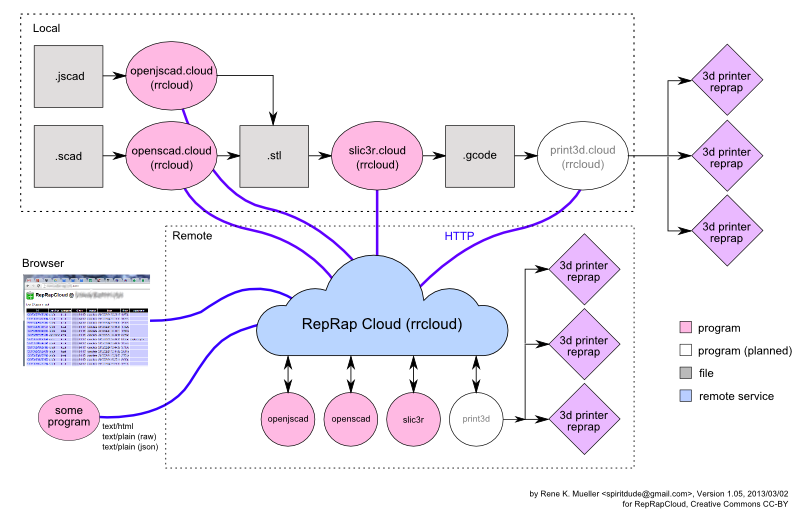
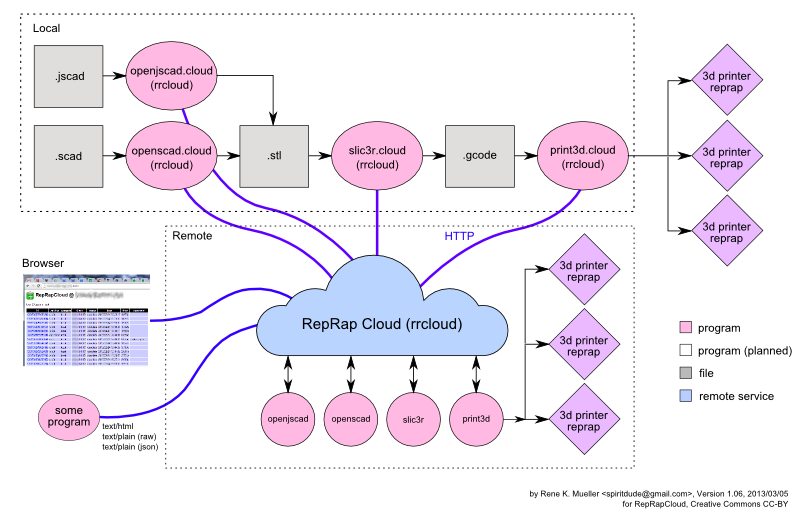
0.016: print3d implemented, native arguments etc

Changed region(s): [[0.6562, 0.2175, 0.7812, 0.3728], [0.5625, 0.7456, 0.6562, 0.8699]]

diff --git a/README.md b/README.md
@@ -1,6 +1,6 @@
 <h1>RepRapCloud</h1>
 
-<b>Version: 0.015 (ALPHA)</b>
+<b>Version: 0.016 (ALPHA)</b>
 
 <b>RepRapCloud</b> (<tt>rrcloud</tt>) is a small but powerful perl-script which provides an easy framework to relay computational work remote among many servers and retrieve the results locally; both synchronous (returns when done) and asynchronous (returns immediately telling you the state of task 'busy', 'complete' or 'failed').
 
@@ -33,6 +33,7 @@ does nearly the same, except it returns right away (asynchronous), and if you ca
 <li><a href="http://openscad.org">OpenSCAD.org</a> (for .scad -> .stl)
 <li><a href="https://github.com/Spiritdude/OpenSCAD.jscad">OpenSCAD.js(cad)</a> & <a href="http://joostn.github.com/OpenJsCad/">OpenJsCad</a> (for .jscad -> .stl)
 <li><a href="http://slic3r.org">Slic3r.org</a> (for .stl -> .gcode)
+<li><a href="https://github.com/kliment/Printrun">Printrun (for .gcode to printer)
 </ul>
 </ul>
 
@@ -41,6 +42,7 @@ does nearly the same, except it returns right away (asynchronous), and if you ca
 <li><b>openscad</b> (single file input/output), e.g. <tt>openscad.cloud huge.scad -ohuge.stl</tt> (<a href="http://openscad.org/">OpenSCAD</a>)
 <li><b>openjscad</b> (single file input/output with support of OpenSCAD.js), e.g. <tt>openjscad.cloud huge.jscad -ohuge.stl</tt> (<a href="https://github.com/Spiritdude/OpenSCAD.jscad">OpenSCAD.js(cad) & OpenJsCad</a>)
 <li><b>slic3r</b>, e.g. <tt>slic3r.cloud --load=my.conf huge.stl --output=huge.gcode</tt>
+<li><b>print3d</b> e.g. <tt>print3d /dev/ttyUSB3 huge.gcode</tt>
 <p>
 <li><b>not yet</b> but planned:
 <ul>
@@ -54,6 +56,7 @@ does nearly the same, except it returns right away (asynchronous), and if you ca
 
 <h2>History</h2>
 <ul>
+<li> 2013/03/05: 0.016: native arguments (switches and variables) supported, print3d service added (via Printrun:printcore.py)
 <li> 2013/03/04: 0.015: preparing general interface for several dbs (mongodb, mysql, flat-file (default))
 <li> 2013/03/03: 0.014: logging, and some code clean-up
 <li> 2013/03/02: 0.013: checking preargN for validity
@@ -333,6 +336,13 @@ slic3r --load=tasks/in/1361787183-742842.conf tasks/in/1361787183-933412.stl --o
 <b>Note:</b> If a prearg<i>n</i> is set which doesn't fit the <i>service</i>.conf:argInput field it will be ignored (e.g. one could set 'prearg0=; do-something-not-approved' and hack the server).
 
 <b>Hint:</b> This configuration and composition procedure is preliminary and might change later.
+
+<h2>See Also</h2>
+<ul>
+<li><a href="https://github.com/triffid/netrap">Netrap</a>, distributed printing over several hosts
+<li><a href="http://www.botqueue.com">BotQueue V2</a>, distributed slicing & printing over several hosts
+<li><a href="https://github.com/foosel/OctoPrint">OctoPrint</a>, distributed printing from one host
+</ul>
 
 That's all for now,
 
